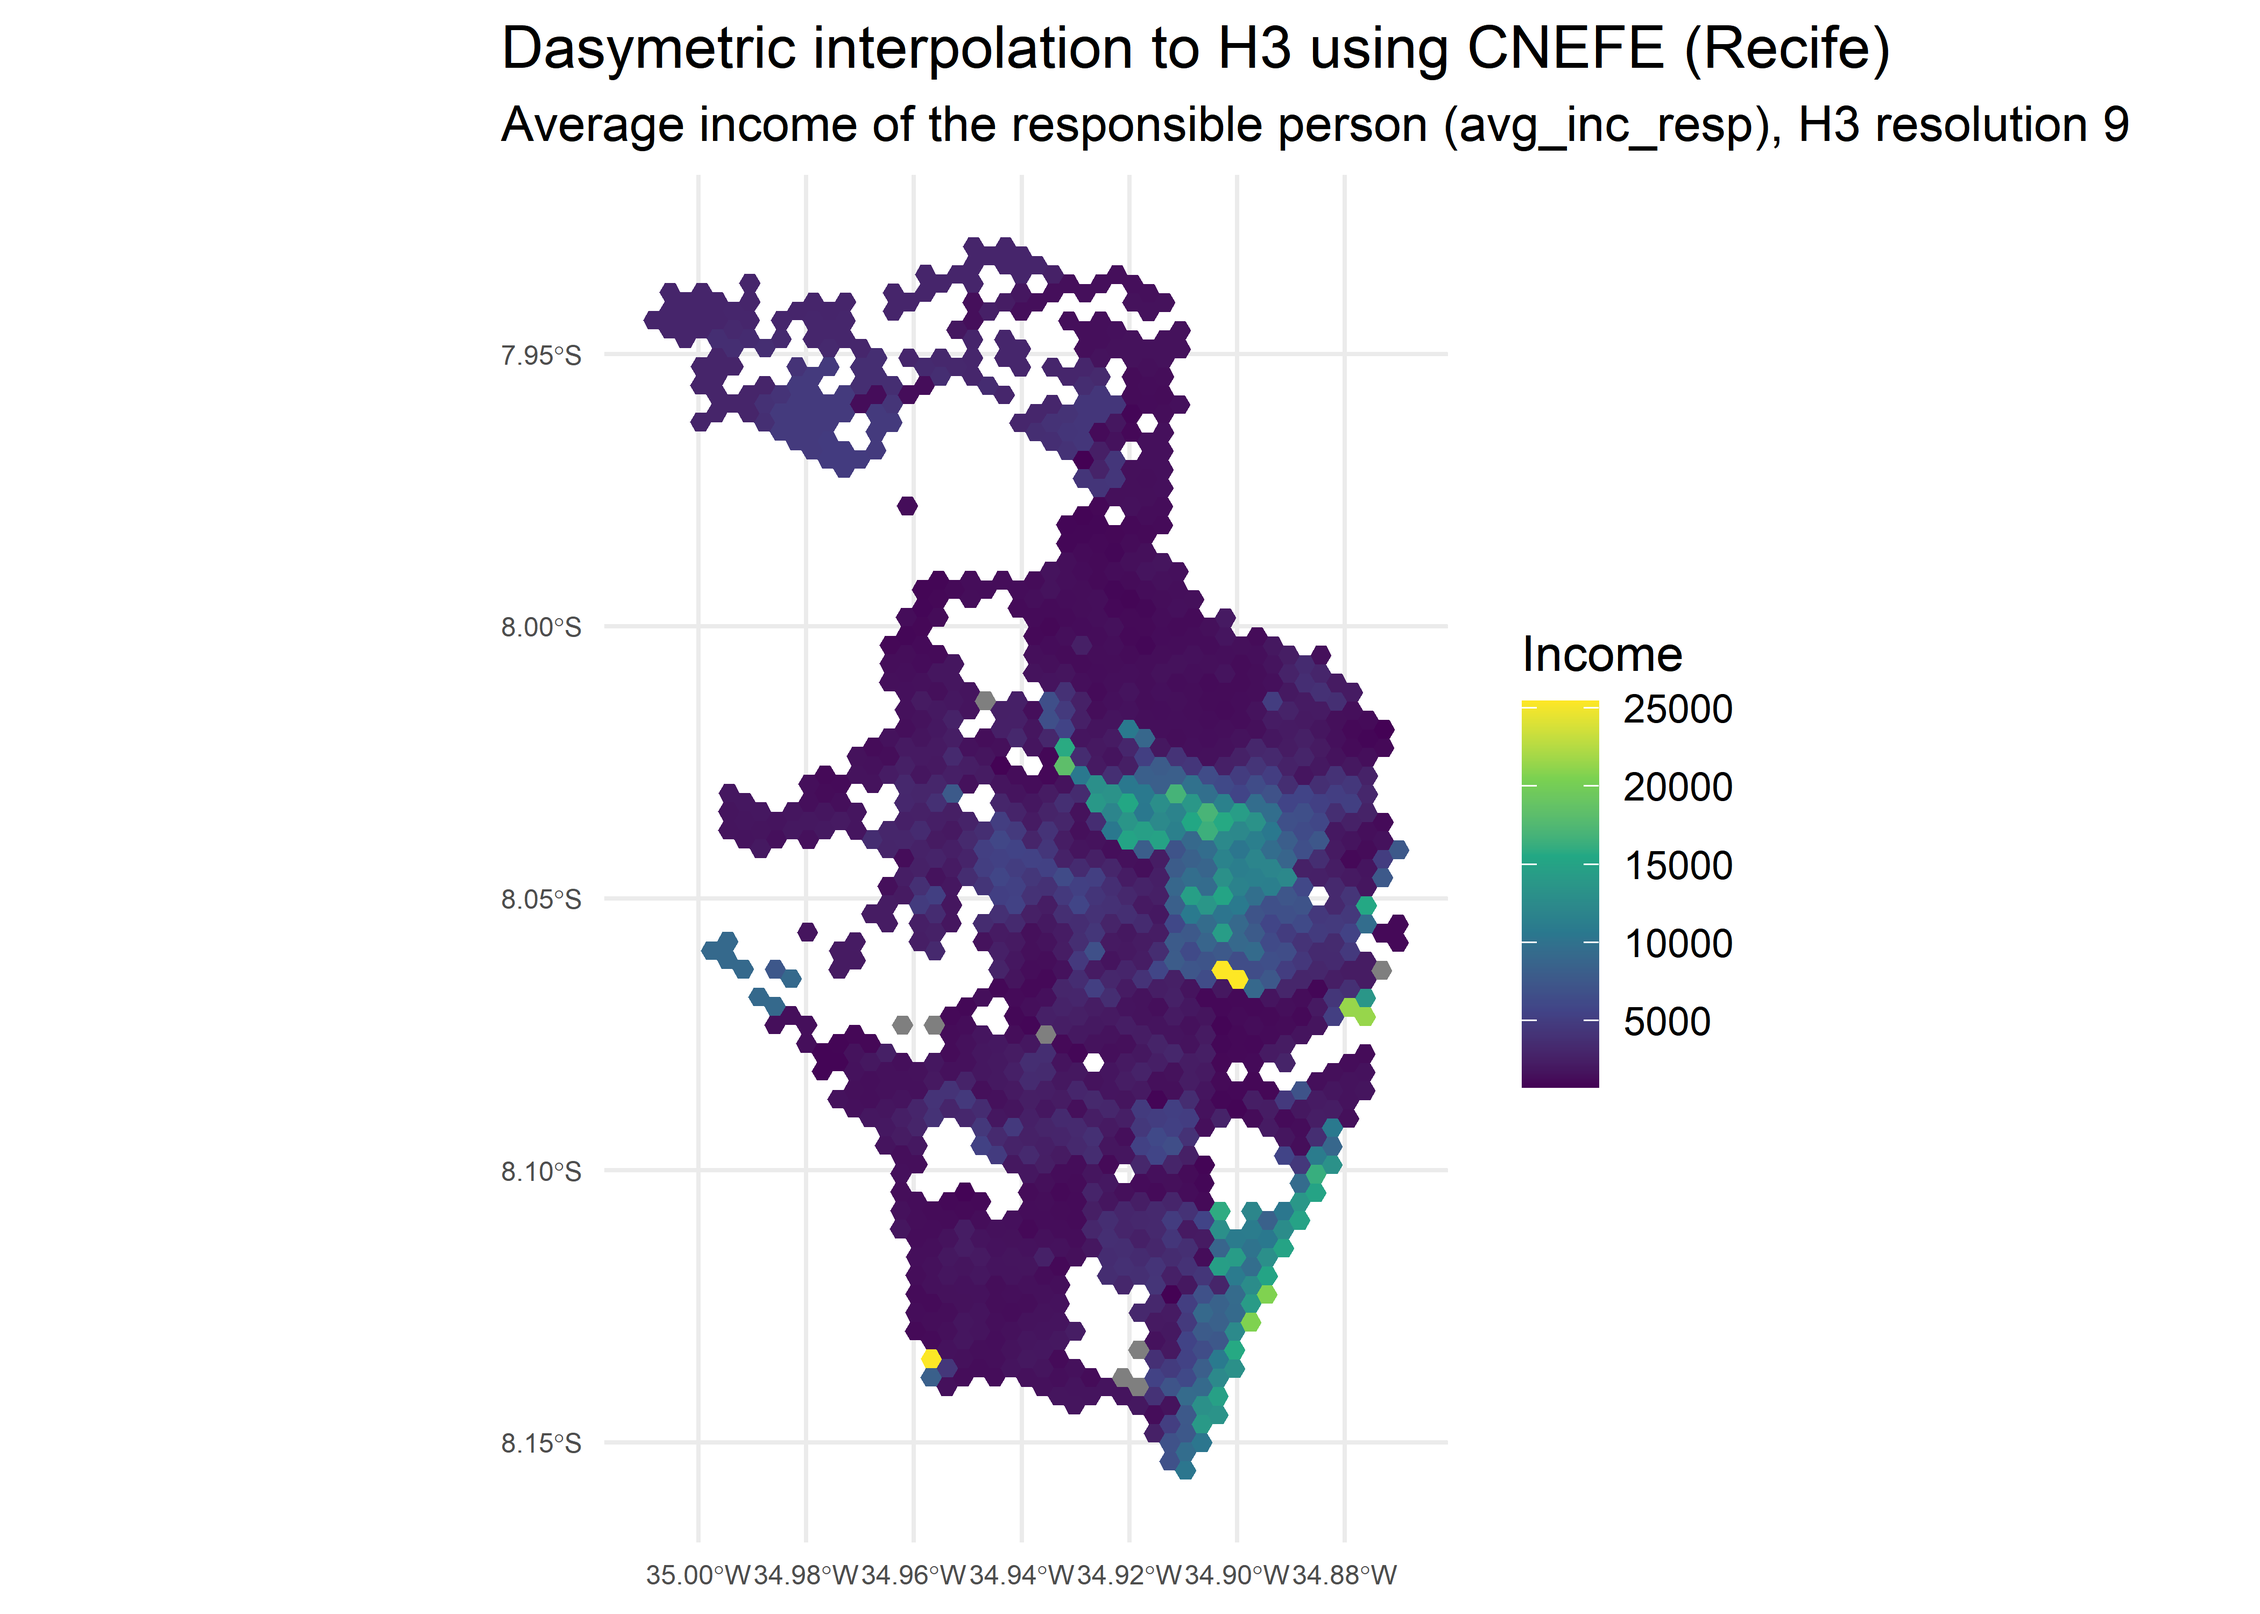
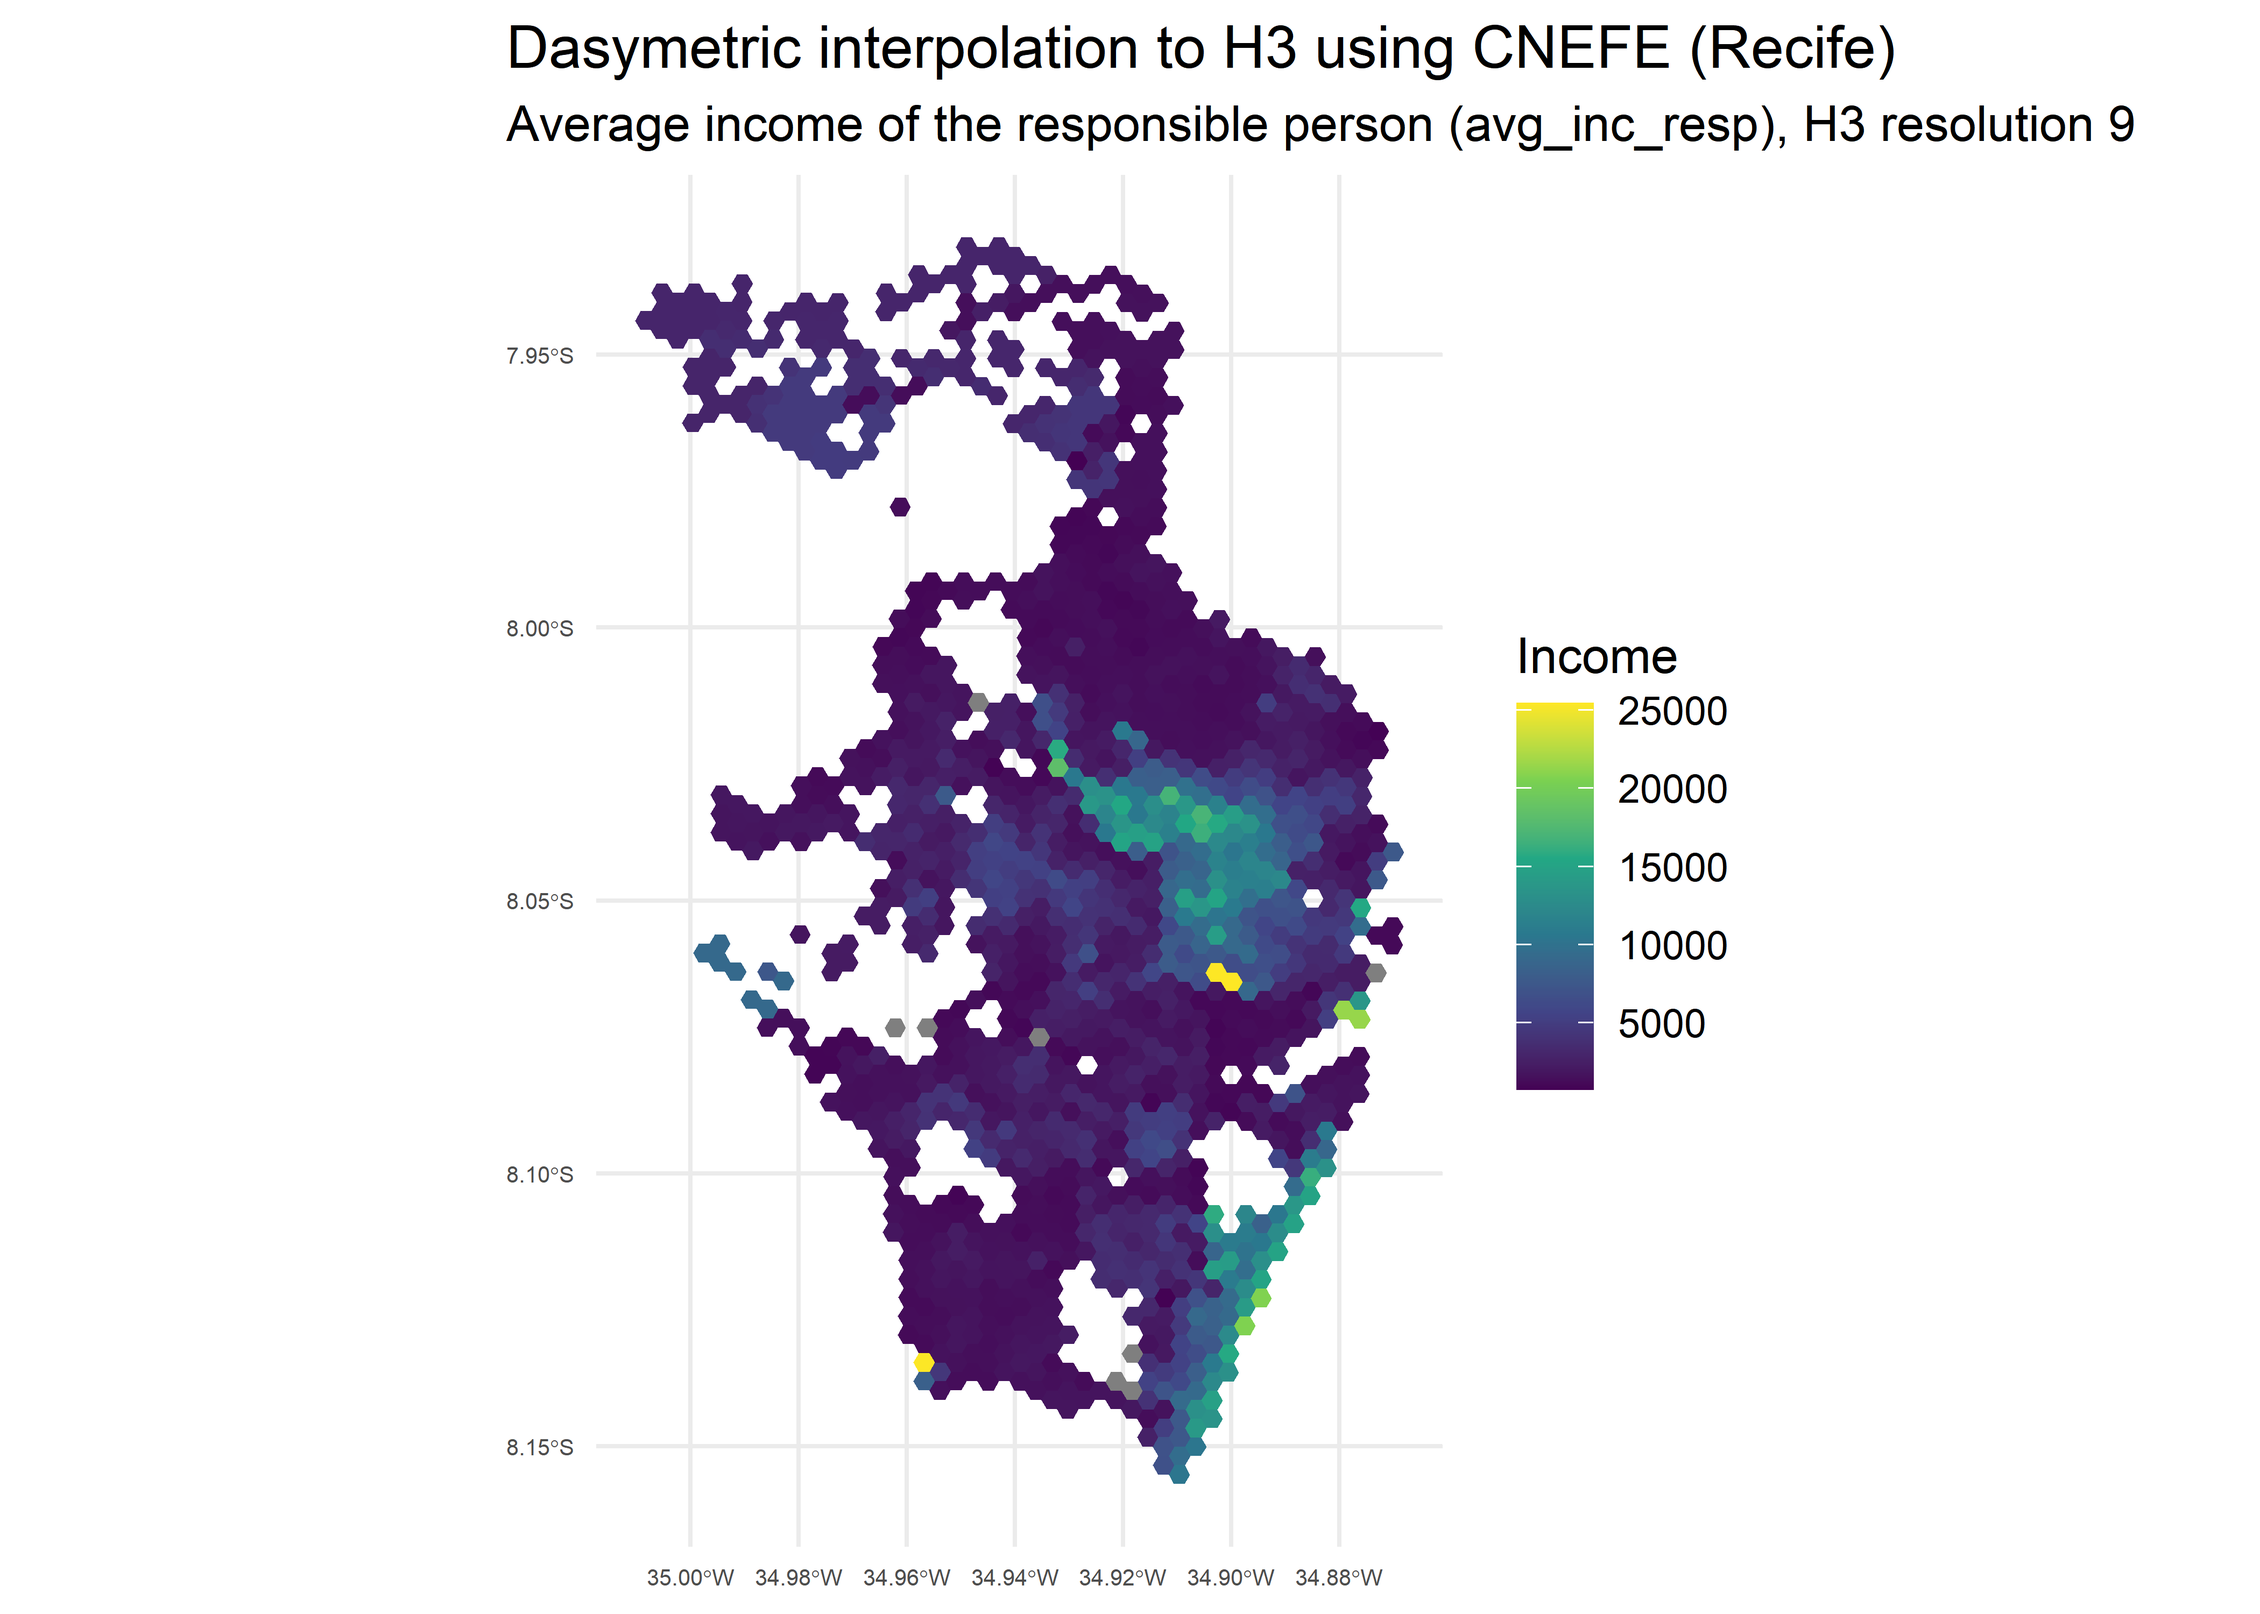
reduce ggplot x-axis text size from 6 to 5 in README

diff --git a/README.md b/README.md
@@ -174,8 +174,8 @@ ggplot(hex_sp) +
   theme_minimal()+
   theme(
     plot.title.position = "plot",
-    axis.text.x = element_text(size = 6),
-    axis.text.y = element_text(size = 6)
+    axis.text.x = element_text(size = 5),
+    axis.text.y = element_text(size = 5)
   )
 ```
 
@@ -233,8 +233,8 @@ ggplot(lumi_ftl) +
   theme_minimal()+
   theme(
     plot.title.position = "plot",
-    axis.text.x = element_text(size = 6),
-    axis.text.y = element_text(size = 6)
+    axis.text.x = element_text(size = 5),
+    axis.text.y = element_text(size = 5)
   )
 ```
 
@@ -285,8 +285,8 @@ ggplot(rec_hex) +
   theme_minimal() +
   theme(
     plot.title.position = "plot",
-    axis.text.x = element_text(size = 6),
-    axis.text.y = element_text(size = 6)
+    axis.text.x = element_text(size = 5),
+    axis.text.y = element_text(size = 5)
   )
 ```
 
@@ -307,8 +307,8 @@ ggplot(rec_hex) +
   theme_minimal() +
   theme(
     plot.title.position = "plot",
-    axis.text.x = element_text(size = 6),
-    axis.text.y = element_text(size = 6)
+    axis.text.x = element_text(size = 5),
+    axis.text.y = element_text(size = 5)
   )
 ```
 
@@ -361,8 +361,8 @@ ggplot(rec_poly) +
   theme_minimal() +
   theme(
     plot.title.position = "plot",
-    axis.text.x = element_text(size = 6),
-    axis.text.y = element_text(size = 6)
+    axis.text.x = element_text(size = 5),
+    axis.text.y = element_text(size = 5)
   )
 ```
 
